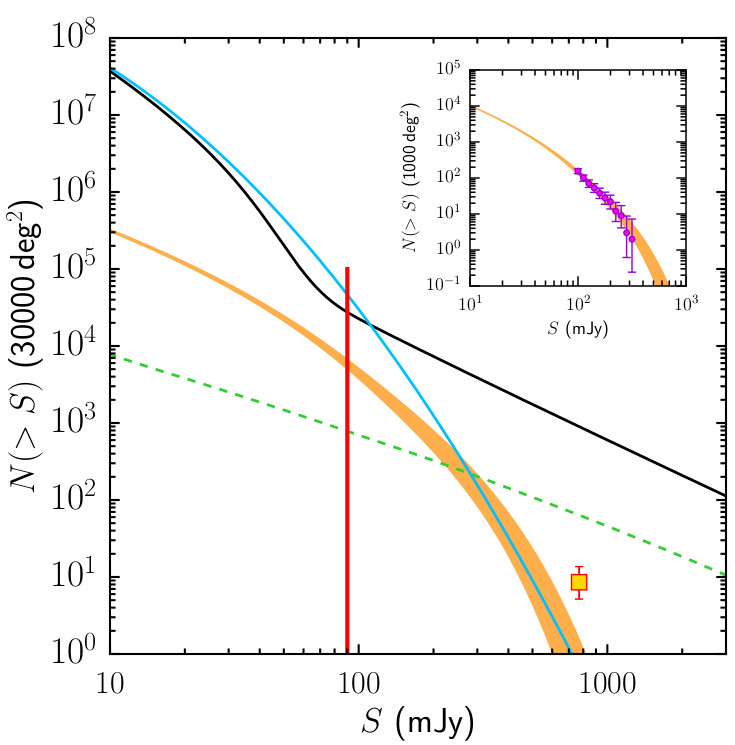
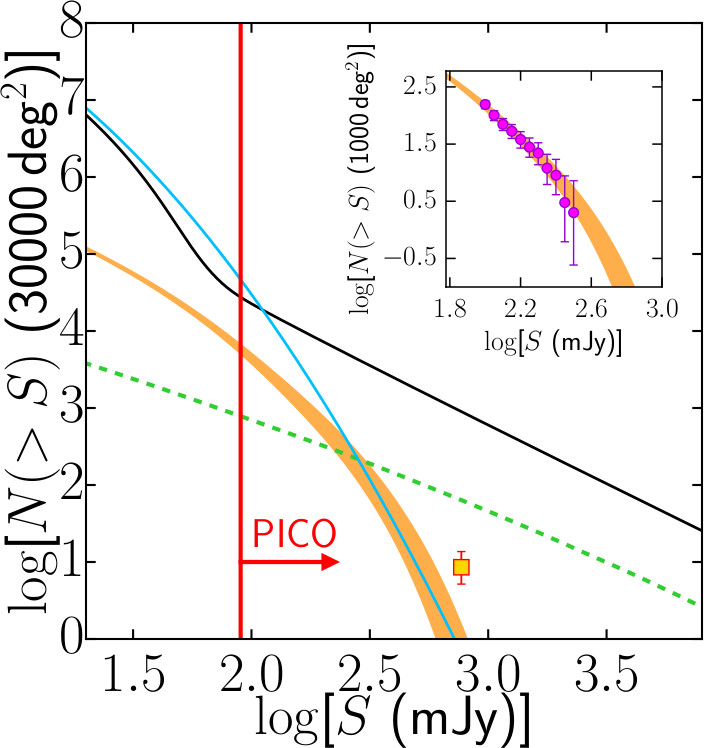
updating Fig 12

Changed region(s): [[0.0, 0.0, 1.0, 1.0], [0.6562, 0.5248, 0.75, 0.5866], [0.8438, 0.7101, 0.9062, 0.7718]]

diff --git a/LegacyOct30.tex b/LegacyOct30.tex
@@ -5,8 +5,9 @@
 \begin{figure*}
 %\vskip-3cm
 \begin{center}
-\includegraphics[width=0.43\columnwidth, trim={0 0 0 0cm}, clip]{fig_SED_PICO.jpg}
-\includegraphics[width=0.50\columnwidth, height=5.5truecm, trim={0 0 0 0cm}, clip]{NgtF_pico_new.jpg}
+\includegraphics[width=0.43\columnwidth, trim={0 0 0 0cm}, clip]{images/fig_SED_PICO.jpg}
+\hspace{0.75cm}
+\includegraphics[width=0.4\columnwidth, trim={0 0 0 0cm}, clip]{images/NgtF_pico_new_compressed.jpg}
 \vskip-0.3cm
 \caption{\textbf{Left panel.} Examples of spectral energy distributions (SEDs) of dusty star-forming galaxies detectable by PICO, compared with its point source detection limits (broken black line) and with the \textit{Planck} 90\% completeness limits (broken red line; \cite{PCCS2}). PICO will detect nearby galaxies, like M\,61, whose SED was scaled down by a factor of 10, and high-$z$ redshift strongly lensed galaxies, like SMM\,J2133-0102  at $z=2.3$ \cite{Swinbank2010} and HLSJ$091828.6+514223$ at $z=5.2$ \cite{Combes2012}. The dashed  lines show the SEDs of the two galaxies corrected for the lensing magnification.  \textbf{Right panel.} Integral counts at $500\,\mu$m (600\,GHz). The solid black line and the orange band show counts of unlensed and strongly lensed star-forming galaxies, respectively, based on fits of \textit{Herschel} counts. Above the PICO detection limit (vertical red line) the counts of unlensed galaxies have an Euclidean slope, indicative of low $z$. The yellow square on the bottom right shows the \textit{Planck} count of strongly lensed galaxies, while their \textit{Herschel} counts \cite{Negrello2017lensed} are shown in the inset. The solid blue line shows the counts of proto-clusters of galaxies yielded by the model of ref.~\cite{Negrello2017protocl}.}
 \label{fig:SED3}
